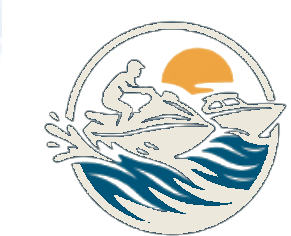
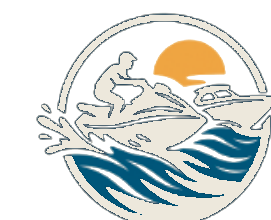
fix: crop nav brand-mark and add spacing below fleet filter tabs
- Remove white background remnants from brand-mark.png via edge flood-fill, crop 8px on all sides
- Add margin-bottom: 1.6rem to .fleet-tabs so filter buttons don't crowd the rental cards

diff --git a/app/globals.css b/app/globals.css
@@ -418,7 +418,7 @@ a { color: inherit; text-decoration: none; }
 }
 .fleet-head .tag { max-width: 48ch; color: oklch(0.92 0.012 85 / .82); font-size: clamp(1rem, 4vw, 1.15rem); text-wrap: pretty; }
 
-.fleet-tabs { display: flex; gap: .5rem; flex-wrap: wrap; margin-top: .4rem; }
+.fleet-tabs { display: flex; gap: .5rem; flex-wrap: wrap; margin-top: .4rem; margin-bottom: 1.6rem; }
 .fleet-tab {
   font-family: var(--ff-mono); font-size: .72rem; letter-spacing: .12em; text-transform: uppercase;
   padding: .55rem .95rem; border: 1px solid var(--line); background: transparent; color: oklch(0.88 0.015 85 / .72);
